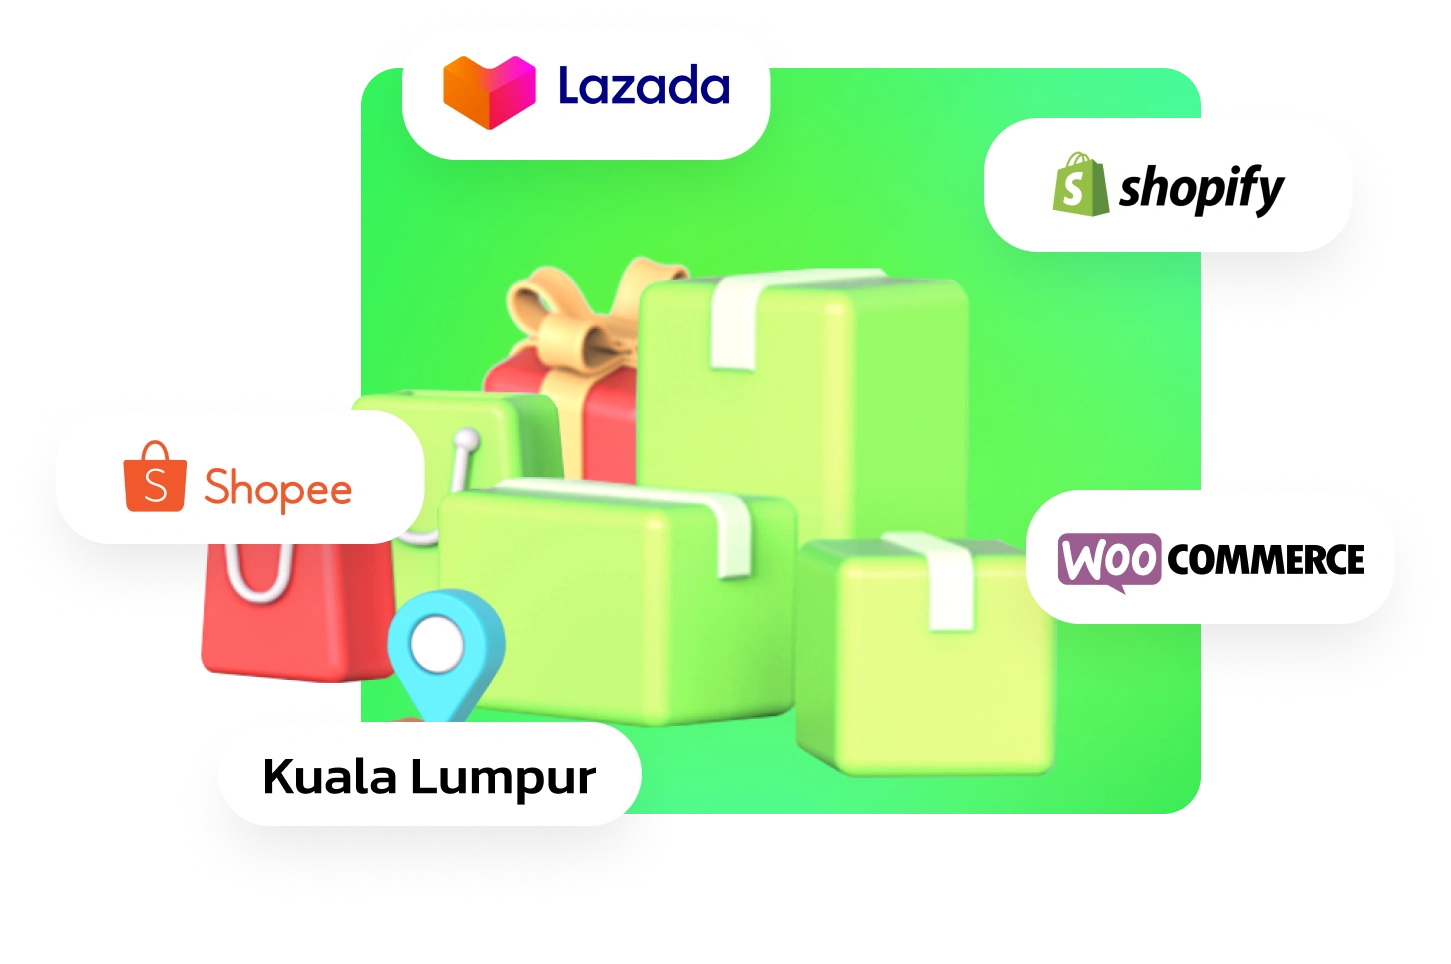
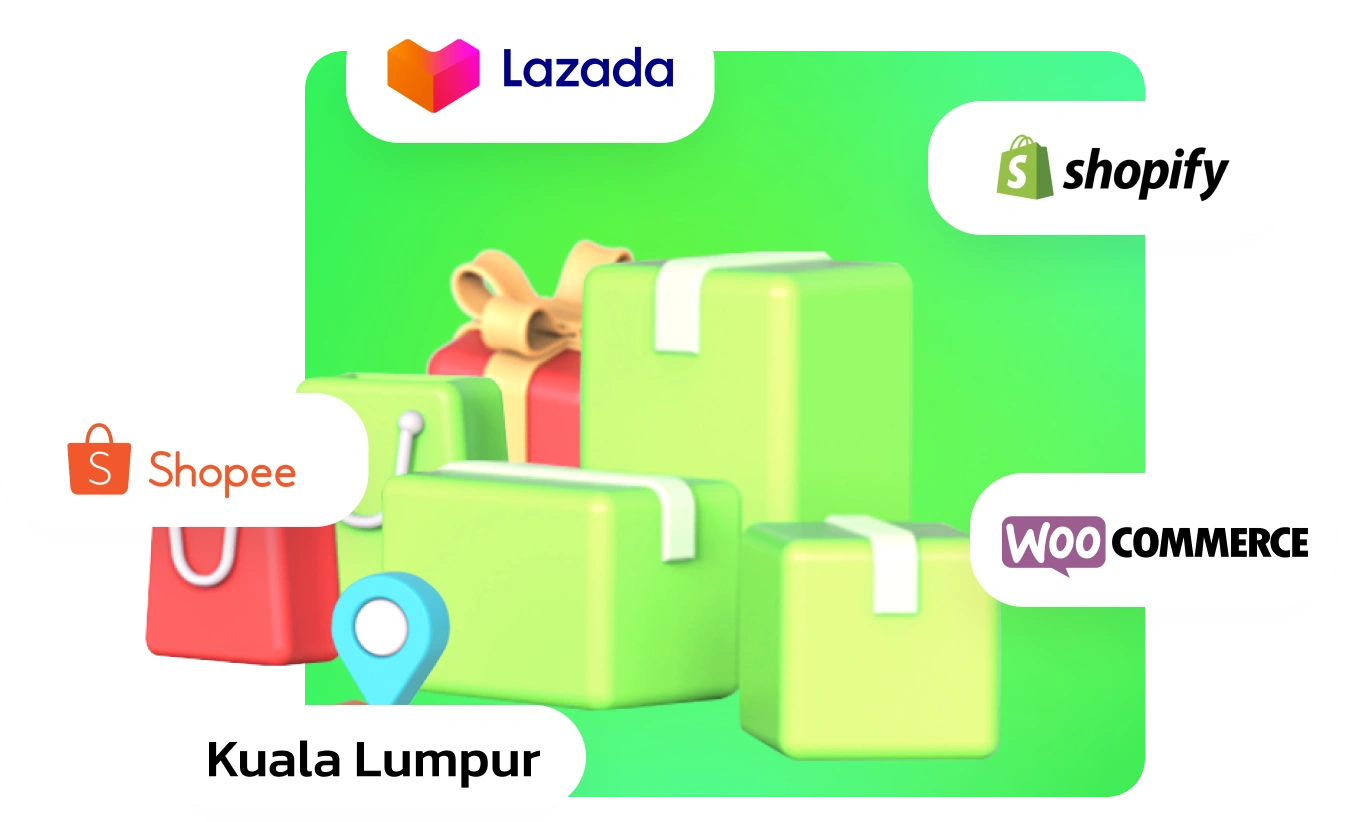
changes

diff --git a/src/app/components/ApiIntegrations.jsx b/src/app/components/ApiIntegrations.jsx
@@ -1,8 +1,45 @@
 import React from 'react'
+import Image from 'next/image'
+import CustomHeading from './common/CustomHeading'
+import CustomDescription from './common/CustomDescription'
+import CustomButton from './common/CustomButton'
 
 const ApiIntegrations = () => {
   return (
-    <div>ApiIntegrations</div>
+    <div className='lg:pt-[100px] lg:pb-[34px] py-12'>
+      <div className='xl:max-w-[1440px] mx-auto'>
+        <div className='container mx-auto relative'>
+          <div className='xl:flex-row flex flex-col gap-7'>
+            <div className='xl:max-w-[560px] w-full flex flex-col xl:items-start items-center justify-center xl:pt-10'>
+              <CustomHeading styleclass="xl:!text-custom-5xl leading-[100%] lg:text-5xl md:text-4xl text-2xl font-kanit font-semibold max-xl:text-center max-w-[501px]"
+                title={'API & '} textTwo={'Integrations'} styleclassTwo='' />
+              <CustomDescription styleclass="xl:max-w-[438px] !text-black w-full sm:!text-base sm:!leading-6 text-sm opacity-80 font-normal max-xl:text-center md:py-8 py-6"
+                description="Connect AllSome to your e-commerce stores, delivery partners, service providers and more." />
+              <CustomButton styleclass="!py-[10px] !px-[22px] !bg-black !text-white max-xl:mx-auto" title="Sign up" />
+            </div>
+            <div className='max-w-[773px] w-full xl:absolute -right-12 max-xl:flex justify-center'>
+              <div className="shadow-custom-2 flex justify-between relative">
+                  <Image
+                  src="/assets/images/webp/ninjavan.webp"
+                    width={231}
+                    height={81}
+                    className='object-cover max-w-[231px] lg:h-[81px] w-full shadow-custom-2 xl:absolute right-[427px] shopify'
+                  alt="ninja"
+                />
+                <Image
+                  src="/assets/images/webp/shopify.webp"
+                  width={231}
+                  height={81}
+                  className='object-cover drop-drop-shadow-custom-2 max-w-[231px] lg:h-[81px] w-full xl:absolute right-0 ninja'
+                  alt="shopify"
+                />
+              </div>
+
+            </div>
+          </div>
+        </div>
+      </div>
+    </div>
   )
 }
 

diff --git a/src/app/components/SalesOpportunity.jsx b/src/app/components/SalesOpportunity.jsx
@@ -6,18 +6,18 @@ import CustomButton from './common/CustomButton'
 
 const SalesOpportunity = () => {
   return (
-    <div className='lg:pt-[77px] md:pt-12 lg:pb-[34px] sm:pb-7 py-6'>
+    <div className='lg:pt-[100px] lg:pb-[34px] py-12'>
       <div className='xl:max-w-[1440px] mx-auto'>
         <div className='container mx-auto'>
-          <div className='xl:flex-row flex flex-col gap-7 xl:pb-36 relative'>
-            <div className='xl:max-w-[560px] w-full flex flex-col lg:items-start items-center justify-center'>
+          <div className='xl:flex-row flex flex-col xl:pb-36 relative'>
+            <div className='xl:max-w-[560px] w-full flex flex-col lg:items-start items-center justify-center xl:pt-10'>
               <CustomHeading styleclass="xl:!text-custom-5xl xl:!leading-custom-15xl lg:text-5xl md:text-4xl text-2xl font-kanit font-semibold max-xl:text-center sm:pb-[21px] pb-4"
                 title={'Maximize sales opportunity with ready inventory'} />
               <CustomDescription styleclass="xl:max-w-[436px] !text-black w-full sm:!text-base sm:!leading-6 text-sm opacity-80 font-normal max-lg:text-center"
                 description="Be where your shoppers are, both online and offline. Appear to the right audience at the right time, both online and offline to generate sales for you." />
               <CustomButton styleclass="sm:mt-[25px] mt-4 !py-[10px] !px-[22px] !bg-black !text-white max-xl:mx-auto" title="Sign up" />
             </div>
-            <div className='flex xl:justify-start justify-center xl:absolute -right-24'>
+            <div className='flex xl:justify-start justify-center xl:absolute -right-16'>
               <Image
                 src="/assets/images/webp/sales.webp"
                 width={682}

diff --git a/src/app/components/DoMoreBest.jsx b/src/app/components/DoMoreBest.jsx
@@ -63,14 +63,14 @@ const DoMoreBest = () => {
         src="/assets/images/webp/best-left-ellipse.webp"
         width={656}
         height={596}
-        className='object-cover absolute top-0 left-0 rounded-tl-[40px] lg:max-w-[656px] sm:max-w-[456px] max-w-[400px]'
+        className='object-cover absolute top-0 left-0 rounded-tl-[40px] lg:max-w-[656px] sm:max-w-[456px] max-w-[400px] sm:block hidden'
         alt="Picture of the author"
       />
       <Image
         src="/assets/images/webp/best-right-ellipse.webp"
         width={563}
         height={347}
-        className='object-cover absolute bottom-0 right-0 rounded-br-[40px] lg:max-w-[563px] max-w-[400px]'
+        className='object-cover absolute bottom-0 right-0 rounded-br-[40px] lg:max-w-[563px] max-w-[400px] sm:block hidden'
         alt="Picture of the author"
       />
       <div className='container max-w-[1178px] mx-auto relative z-10'>

diff --git a/src/app/globals.css b/src/app/globals.css
@@ -53,3 +53,41 @@ body {
 .linear-slider .swiper-wrapper {
   transition-timing-function: linear !important;
 }
+ @keyframes zoomAnimation {
+   0% {
+     transform: scale(1);
+     opacity: 1;
+   }
+
+   50% {
+     transform: scale(1.2);
+     opacity: 0.5;
+   }
+
+   100% {
+     transform: scale(1);
+     opacity: 1;
+   }
+ }
+    @keyframes zoomOutAnimation {
+      0% {
+        transform: scale(1);
+        opacity: 0.5;
+      }
+  
+      50% {
+        transform: scale(1.2);
+        opacity: 1;
+      }
+  
+      100% {
+        transform: scale(1);
+        opacity: 0.5;
+      }
+    }
+ .ninja{
+    animation: zoomAnimation 3s infinite alternate ease-in-out;
+ }
+    .shopify {
+      animation: zoomOutAnimation 3s infinite alternate ease-in-out;
+    }
